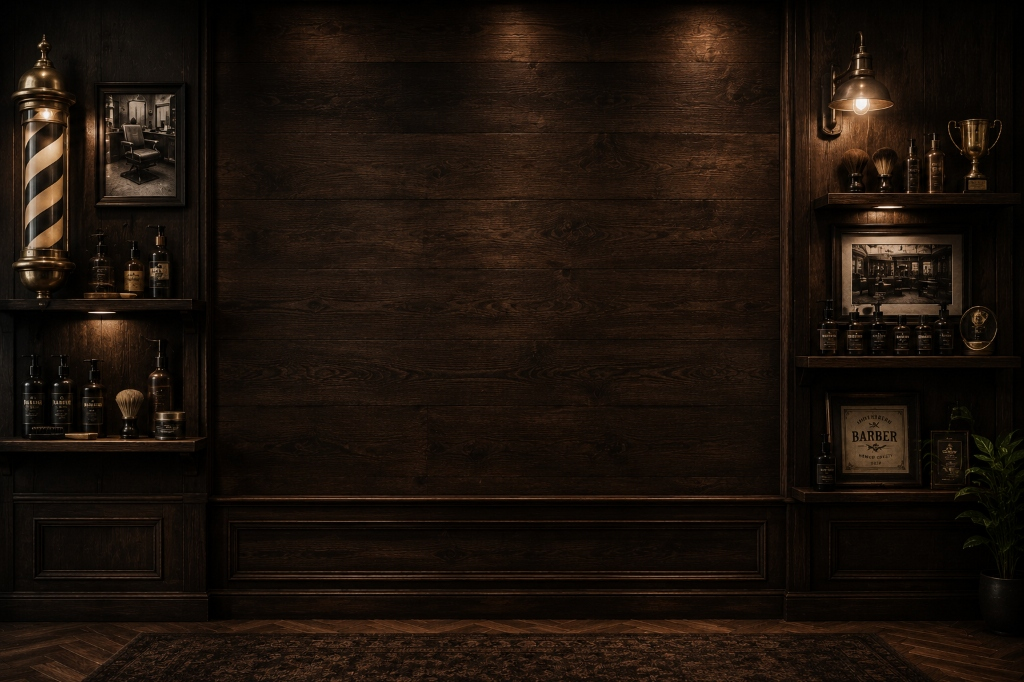
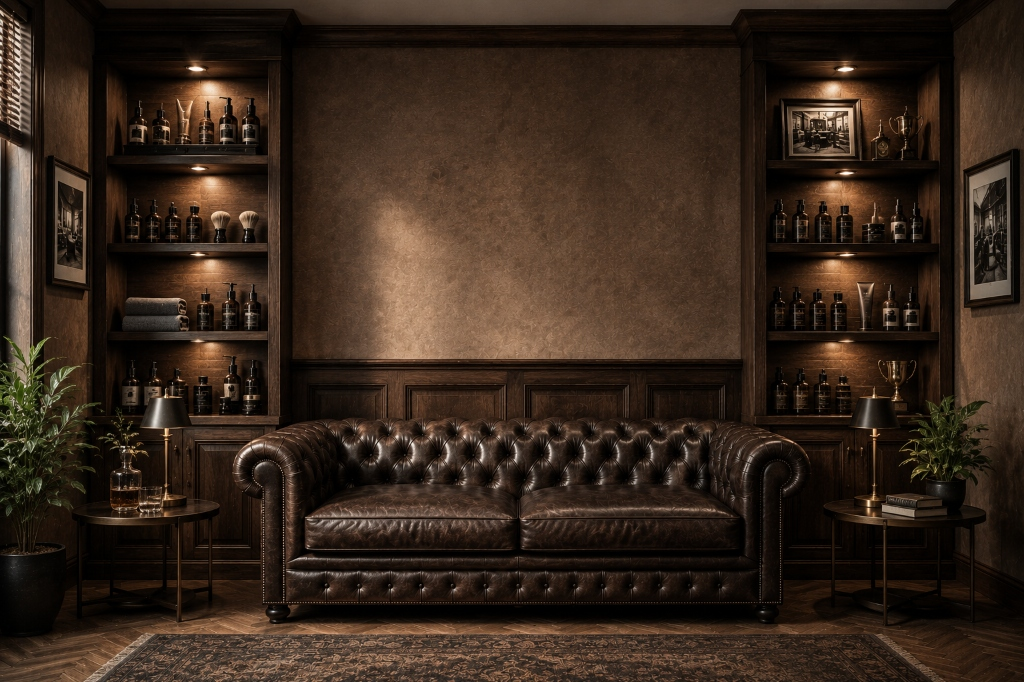
Updated Image 3 with new upload and removed dark overlays so background images are 100% brightly visible

diff --git a/components/Team.tsx b/components/Team.tsx
@@ -35,20 +35,19 @@ export const teamMembers = [
 export default function Team() {
   return (
     <section className="relative border-t border-[#FACC15]/30 py-24 md:py-36 text-white overflow-hidden" id="team">
-      {/* Image 3 Background for Meet the Barbers Section */}
+      {/* 100% Bright Visible New Image 3 Background for Meet the Barbers Section */}
       <div className="absolute inset-0 z-0">
         <Image
           src="/images/image3_about_team_bg.jpg"
-          alt="THE HAIRPORT Image 3 Barber Wall Background"
+          alt="THE HAIRPORT New Image 3 Barber Wall Background"
           fill
           priority
-          className="object-cover object-center opacity-95"
+          className="object-cover object-center opacity-100"
         />
-        <div className="absolute inset-0 bg-gradient-to-b from-black/60 via-black/40 to-black/70" />
       </div>
 
       <div className="relative z-10 container-luxury">
-        <Reveal className="text-center max-w-2xl mx-auto">
+        <Reveal className="text-center max-w-2xl mx-auto bg-black/80 p-8 rounded-3xl border border-[#FACC15]/40 backdrop-blur-md mb-12">
           <span className="eyebrow text-[#FACC15]">Meet Our Artisans</span>
           <h2 className="mt-4 font-display text-4xl leading-tight text-white md:text-5xl font-bold drop-shadow-lg">
             Master Hairstylists Behind <span className="text-[#FACC15] italic font-serif">The Chair.</span>
@@ -58,7 +57,7 @@ export default function Team() {
           </p>
         </Reveal>
 
-        <div className="mt-16 grid gap-8 md:grid-cols-3">
+        <div className="grid gap-8 md:grid-cols-3">
           {teamMembers.map((member, i) => (
             <Reveal key={member.name} delay={i * 0.1}>
               <div className="group relative overflow-hidden rounded-2xl border border-[#FACC15]/40 bg-black/85 p-6 shadow-2xl backdrop-blur-md transition-all duration-300 hover:-translate-y-2 hover:border-[#FACC15]">

diff --git a/components/Hero.tsx b/components/Hero.tsx
@@ -10,7 +10,7 @@ export default function Hero() {
 
   return (
     <section className="relative flex min-h-[100svh] w-full items-center justify-center overflow-hidden pt-24 pb-16">
-      {/* User Uploaded Image 1 Hero Background */}
+      {/* 100% Bright Visible Image 1 Hero Background */}
       <div className="absolute inset-0 z-0 overflow-hidden">
         <Image
           src="/images/image1_hero_stats_bg.jpg"
@@ -19,8 +19,6 @@ export default function Hero() {
           priority
           className="object-cover object-center opacity-100"
         />
-        {/* Soft subtle bottom gradient transition */}
-        <div className="absolute inset-0 bg-gradient-to-b from-black/40 via-transparent to-black/80" />
       </div>
 
       <div className="relative z-10 container-luxury flex flex-col items-center text-center max-w-4xl mx-auto pt-16">
@@ -52,7 +50,7 @@ export default function Hero() {
           initial={{ opacity: 0, y: 16 }}
           animate={{ opacity: 1, y: 0 }}
           transition={{ duration: 0.8, delay: 0.5 }}
-          className="mt-6 max-w-2xl text-base sm:text-lg md:text-xl text-white font-semibold leading-relaxed text-balance drop-shadow-[0_2px_8px_rgba(0,0,0,0.9)] bg-black/70 px-6 py-2.5 rounded-2xl backdrop-blur-md border border-[#FACC15]/30"
+          className="mt-6 max-w-2xl text-base sm:text-lg md:text-xl text-white font-semibold leading-relaxed text-balance drop-shadow-[0_2px_8px_rgba(0,0,0,0.9)] bg-black/75 px-6 py-2.5 rounded-2xl backdrop-blur-md border border-[#FACC15]/30"
         >
           Premium Barber Experience in Nashik. Tailored precision haircuts, skin fades, hot towel razor shaves, and unhurried grooming rituals by Prashant Sir &amp; team.
         </motion.p>

diff --git a/components/Services.tsx b/components/Services.tsx
@@ -75,20 +75,19 @@ export const featuredServicesList = [
 export default function Services() {
   return (
     <section className="relative border-t border-[#FACC15]/30 py-24 md:py-36 text-white overflow-hidden" id="services">
-      {/* User Uploaded Image 2 Background for Services Section */}
+      {/* 100% Bright Visible Image 2 Background for Services Section */}
       <div className="absolute inset-0 z-0">
         <Image
           src="/images/image2_services_bg.jpg"
           alt="THE HAIRPORT Image 2 Barber Tools Background"
           fill
           priority
-          className="object-cover object-center opacity-95"
+          className="object-cover object-center opacity-100"
         />
-        <div className="absolute inset-0 bg-gradient-to-b from-black/60 via-black/40 to-black/75" />
       </div>
 
       <div className="relative z-10 container-luxury">
-        <Reveal className="max-w-2xl">
+        <Reveal className="max-w-2xl bg-black/80 p-8 rounded-3xl border border-[#FACC15]/40 backdrop-blur-md mb-12">
           <span className="eyebrow text-[#FACC15]">Barbershop Services &amp; Pricing</span>
           <h2 className="mt-4 font-display text-4xl leading-tight text-white md:text-5xl font-bold drop-shadow-lg">
             Precision Crafts. <span className="text-[#FACC15] italic font-serif">Verified Rates.</span>
@@ -98,7 +97,7 @@ export default function Services() {
           </p>
         </Reveal>
 
-        <div className="mt-14 grid gap-6 md:grid-cols-2 lg:grid-cols-4">
+        <div className="grid gap-6 md:grid-cols-2 lg:grid-cols-4">
           {featuredServicesList.map((service, i) => {
             const Icon = service.icon;
             return (

diff --git a/components/About.tsx b/components/About.tsx
@@ -15,16 +15,15 @@ const highlights = [
 export default function About() {
   return (
     <section className="relative border-t border-[#FACC15]/30 py-24 md:py-36 text-white overflow-hidden" id="about">
-      {/* Image 3 Background for About Section */}
+      {/* 100% Bright Visible New Image 3 Background for About Section */}
       <div className="absolute inset-0 z-0">
         <Image
           src="/images/image3_about_team_bg.jpg"
-          alt="THE HAIRPORT Image 3 Barber Wall Background"
+          alt="THE HAIRPORT New Image 3 Barber Wall Background"
           fill
           priority
-          className="object-cover object-center opacity-95"
+          className="object-cover object-center opacity-100"
         />
-        <div className="absolute inset-0 bg-gradient-to-b from-black/50 via-transparent to-black/70" />
       </div>
 
       <div className="relative z-10 container-luxury">

diff --git a/components/Stats.tsx b/components/Stats.tsx
@@ -13,16 +13,15 @@ const stats = [
 export default function Stats() {
   return (
     <section className="relative border-t border-[#FACC15]/30 py-20 text-white overflow-hidden">
-      {/* User Uploaded Image 1 Background for Statistics Section */}
+      {/* 100% Bright Visible Image 1 Background for Statistics Section */}
       <div className="absolute inset-0 z-0">
         <Image
           src="/images/image1_hero_stats_bg.jpg"
           alt="THE HAIRPORT Statistics Background"
           fill
           priority
-          className="object-cover object-center opacity-90"
+          className="object-cover object-center opacity-100"
         />
-        <div className="absolute inset-0 bg-black/70 backdrop-blur-[2px]" />
       </div>
 
       <div className="relative z-10 container-luxury">
